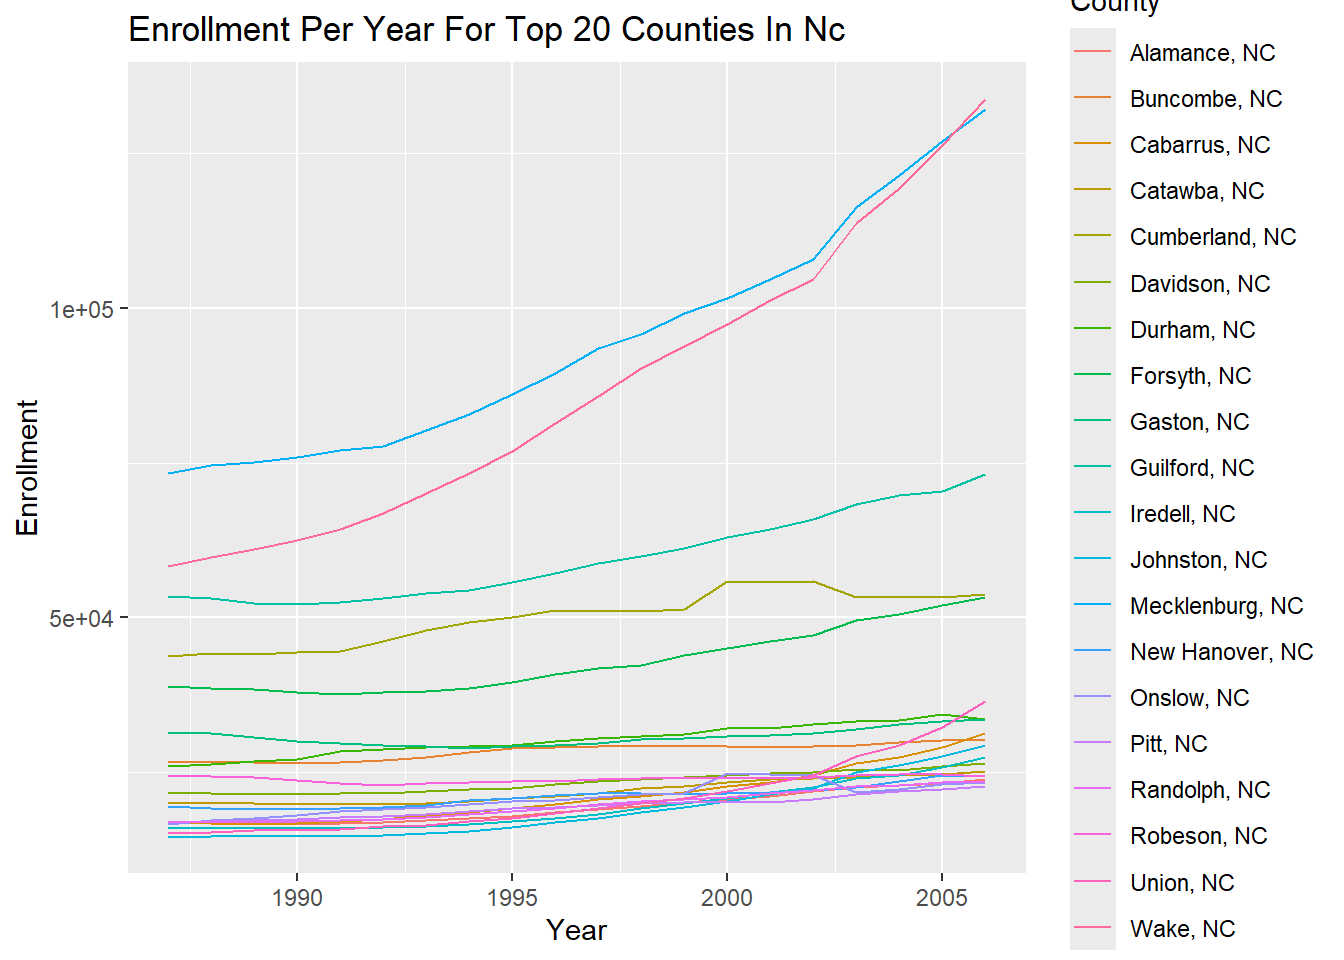
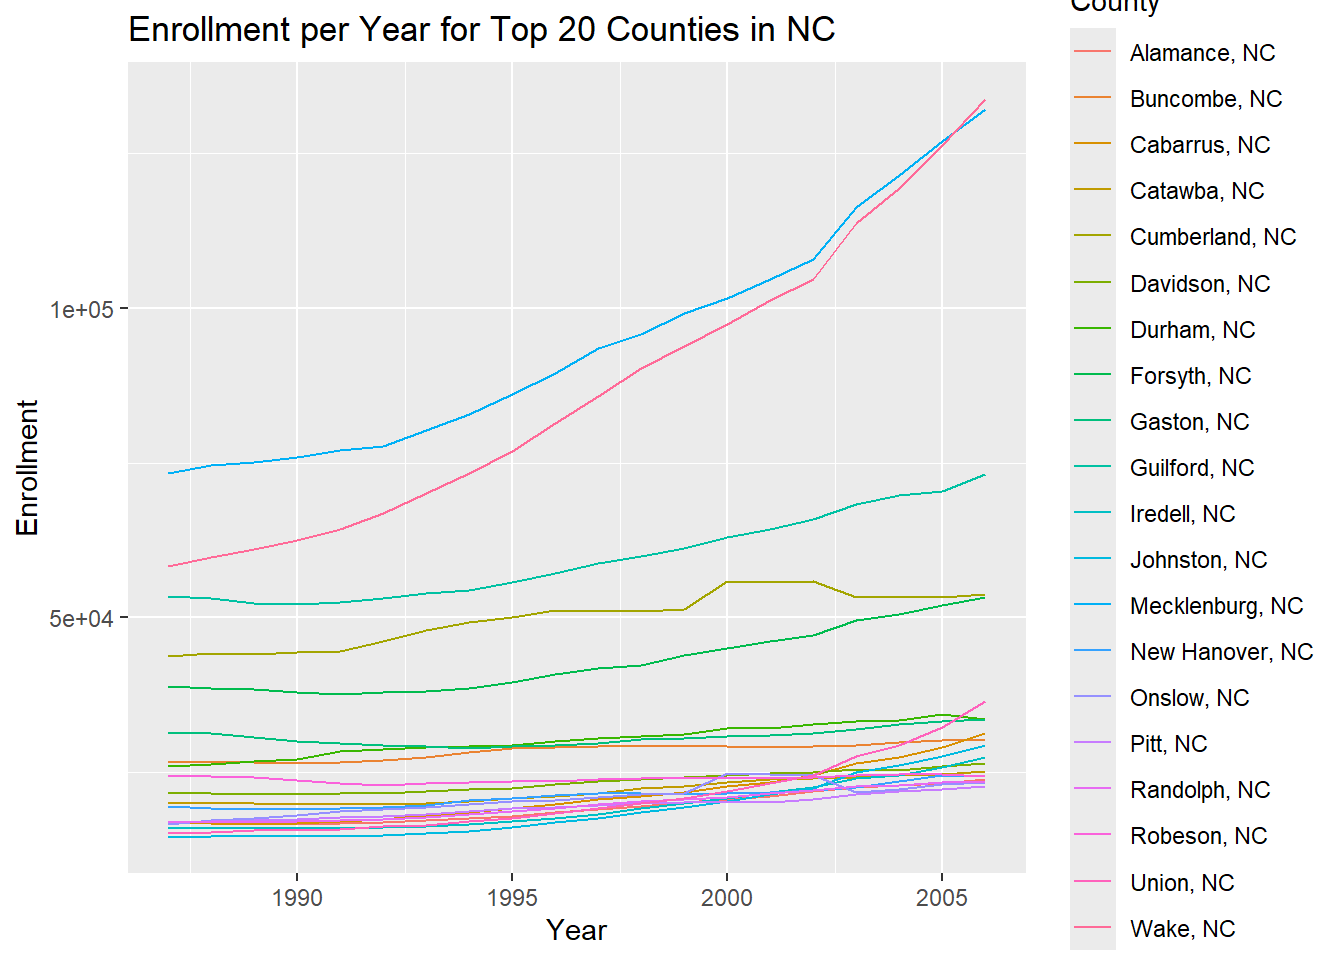
changed title function in plots so abbreviations are capitalized and prepositions lowercase

Changed region(s): [[0.2188, 0.0, 0.625, 0.0625]]

diff --git a/docs/ST558Proj1.html b/docs/ST558Proj1.html
@@ -534,21 +534,22 @@ dbl (20): EDU010197F, EDU010197D, EDU010198F, EDU010198D, EDU010199F, EDU010...
 <section id="state-plotting-function" class="level2">
 <h2 class="anchored" data-anchor-id="state-plotting-function">State Plotting Function</h2>
 <p>For the state plotting function, we want to create a function that will take in our combined census data sets and our default variable as arguments and returns a plot of year versus the mean of the default variable for each division. To accomplish this, we first need to do some manipulation with our tibble. First, we isolate the proper tibble from the list using $noncounty_data. Since the United States is not a division and has “ERROR” in the division column, we need to filter to remove those rows. Finally we can group by year and division to so that the appropriate means are calculated. To calculate a mean for each year and division combination, we use summarize and reference our default variable name for the mean function.</p>
-<p>After putting our data in the proper form and obtaining means, we can create our line plot. We use ggplot to create a plot instance. The plot instance needs two arguments, one specifying our data and the ohter an aesthetic (aes) mapping argument. The aes mapping defines the x and y axis variables, as well as mapping for division so the plot assigns a different color and line to each division. Next we add layers. Since we want a line connecting years for each division, we use geom_line. We chose to leave the defaults in place so no arguments are specified. A labs layer was then added to modify some labels. The axes and legend labels are capitalized and the title and y-axis label specified in a way that will allow the names to change dynamically according to the default variable name used when calling the function.</p>
+<p>After putting our data in the proper form and obtaining means, we can create our line plot. We use ggplot to create a plot instance. The plot instance needs two arguments, one specifying our data and the other an aesthetic (aes) mapping argument. The aes mapping defines the x and y axis variables, as well as mapping for division so the plot assigns a different color and line to each division. Next we add layers. Since we want a line connecting years for each division, we use geom_line. We chose to leave the defaults in place so no arguments are specified. A labs layer was then added to modify some labels. The axes and legend labels are capitalized and the title and y-axis label specified in a way that will allow the names to change dynamically according to the default variable name used when calling the function.</p>
 <div class="cell">
-<div class="sourceCode cell-code" id="cb32"><pre class="sourceCode r code-with-copy"><code class="sourceCode r"><span id="cb32-1"><a href="#cb32-1" aria-hidden="true" tabindex="-1"></a>state.plot <span class="ot">&lt;-</span> <span class="cf">function</span>(df, <span class="at">var_name =</span> <span class="st">"enrollment"</span>) {</span>
-<span id="cb32-2"><a href="#cb32-2" aria-hidden="true" tabindex="-1"></a>  result <span class="ot">&lt;-</span> df<span class="sc">$</span>noncounty_data <span class="sc">|&gt;</span></span>
-<span id="cb32-3"><a href="#cb32-3" aria-hidden="true" tabindex="-1"></a>    <span class="fu">filter</span>(area_name <span class="sc">!=</span> <span class="st">"UNITED STATES"</span>) <span class="sc">|&gt;</span> </span>
-<span id="cb32-4"><a href="#cb32-4" aria-hidden="true" tabindex="-1"></a>    <span class="fu">group_by</span>(division, year) <span class="sc">|&gt;</span> </span>
-<span id="cb32-5"><a href="#cb32-5" aria-hidden="true" tabindex="-1"></a>    <span class="fu">summarize</span>(<span class="at">mean_values =</span> <span class="fu">mean</span>(<span class="fu">get</span>(var_name)), <span class="at">.groups =</span> <span class="st">"drop"</span>)</span>
-<span id="cb32-6"><a href="#cb32-6" aria-hidden="true" tabindex="-1"></a>  g <span class="ot">&lt;-</span> <span class="fu">ggplot</span>(result, <span class="fu">aes</span>(<span class="at">x =</span> year, <span class="at">y =</span> mean_values, <span class="at">color =</span> division)) <span class="sc">+</span></span>
-<span id="cb32-7"><a href="#cb32-7" aria-hidden="true" tabindex="-1"></a>    <span class="fu">geom_line</span>() <span class="sc">+</span></span>
-<span id="cb32-8"><a href="#cb32-8" aria-hidden="true" tabindex="-1"></a>    <span class="fu">labs</span> (<span class="at">x =</span> <span class="st">"Year"</span>, <span class="at">y =</span> <span class="fu">str_to_title</span>(<span class="fu">paste</span>(<span class="st">"mean"</span>, var_name)), <span class="at">color =</span> <span class="st">"Division"</span>, </span>
-<span id="cb32-9"><a href="#cb32-9" aria-hidden="true" tabindex="-1"></a>          <span class="at">title =</span> <span class="fu">str_to_title</span>(<span class="fu">paste</span>(<span class="st">"mean"</span>, var_name, <span class="st">"per year by division"</span>)))</span>
-<span id="cb32-10"><a href="#cb32-10" aria-hidden="true" tabindex="-1"></a>  <span class="fu">return</span>(g)</span>
-<span id="cb32-11"><a href="#cb32-11" aria-hidden="true" tabindex="-1"></a>}</span>
-<span id="cb32-12"><a href="#cb32-12" aria-hidden="true" tabindex="-1"></a></span>
-<span id="cb32-13"><a href="#cb32-13" aria-hidden="true" tabindex="-1"></a><span class="co">#state.plot(combined_census_lists_EDU)</span></span></code><button title="Copy to Clipboard" class="code-copy-button"><i class="bi"></i></button></pre></div>
+<div class="sourceCode cell-code" id="cb32"><pre class="sourceCode r code-with-copy"><code class="sourceCode r"><span id="cb32-1"><a href="#cb32-1" aria-hidden="true" tabindex="-1"></a><span class="fu">library</span>(tools)</span>
+<span id="cb32-2"><a href="#cb32-2" aria-hidden="true" tabindex="-1"></a>state.plot <span class="ot">&lt;-</span> <span class="cf">function</span>(df, <span class="at">var_name =</span> <span class="st">"enrollment"</span>) {</span>
+<span id="cb32-3"><a href="#cb32-3" aria-hidden="true" tabindex="-1"></a>  result <span class="ot">&lt;-</span> df<span class="sc">$</span>noncounty_data <span class="sc">|&gt;</span></span>
+<span id="cb32-4"><a href="#cb32-4" aria-hidden="true" tabindex="-1"></a>    <span class="fu">filter</span>(area_name <span class="sc">!=</span> <span class="st">"UNITED STATES"</span>) <span class="sc">|&gt;</span> </span>
+<span id="cb32-5"><a href="#cb32-5" aria-hidden="true" tabindex="-1"></a>    <span class="fu">group_by</span>(division, year) <span class="sc">|&gt;</span> </span>
+<span id="cb32-6"><a href="#cb32-6" aria-hidden="true" tabindex="-1"></a>    <span class="fu">summarize</span>(<span class="at">mean_values =</span> <span class="fu">mean</span>(<span class="fu">get</span>(var_name)), <span class="at">.groups =</span> <span class="st">"drop"</span>)</span>
+<span id="cb32-7"><a href="#cb32-7" aria-hidden="true" tabindex="-1"></a>  g <span class="ot">&lt;-</span> <span class="fu">ggplot</span>(result, <span class="fu">aes</span>(<span class="at">x =</span> year, <span class="at">y =</span> mean_values, <span class="at">color =</span> division)) <span class="sc">+</span></span>
+<span id="cb32-8"><a href="#cb32-8" aria-hidden="true" tabindex="-1"></a>    <span class="fu">geom_line</span>() <span class="sc">+</span></span>
+<span id="cb32-9"><a href="#cb32-9" aria-hidden="true" tabindex="-1"></a>    <span class="fu">labs</span> (<span class="at">x =</span> <span class="st">"Year"</span>, <span class="at">y =</span> <span class="fu">str_to_title</span>(<span class="fu">paste</span>(<span class="st">"mean"</span>, var_name)), <span class="at">color =</span> <span class="st">"Division"</span>, </span>
+<span id="cb32-10"><a href="#cb32-10" aria-hidden="true" tabindex="-1"></a>          <span class="at">title =</span> <span class="fu">toTitleCase</span>(<span class="fu">paste</span>(<span class="st">"mean"</span>, var_name, <span class="st">"per year by division"</span>)))</span>
+<span id="cb32-11"><a href="#cb32-11" aria-hidden="true" tabindex="-1"></a>  <span class="fu">return</span>(g)</span>
+<span id="cb32-12"><a href="#cb32-12" aria-hidden="true" tabindex="-1"></a>}</span>
+<span id="cb32-13"><a href="#cb32-13" aria-hidden="true" tabindex="-1"></a></span>
+<span id="cb32-14"><a href="#cb32-14" aria-hidden="true" tabindex="-1"></a><span class="co">#state.plot(combined_census_lists_EDU)</span></span></code><button title="Copy to Clipboard" class="code-copy-button"><i class="bi"></i></button></pre></div>
 </div>
 </section>
 <section id="county-plotting-function" class="level2">
@@ -585,8 +586,8 @@ dbl (20): EDU010197F, EDU010197D, EDU010198F, EDU010198D, EDU010199F, EDU010...
 <span id="cb33-24"><a href="#cb33-24" aria-hidden="true" tabindex="-1"></a>    <span class="fu">geom_line</span>() <span class="sc">+</span></span>
 <span id="cb33-25"><a href="#cb33-25" aria-hidden="true" tabindex="-1"></a>    <span class="fu">labs</span> (<span class="at">x =</span> <span class="st">"Year"</span>, <span class="at">y =</span> <span class="fu">str_to_title</span>(var_name), </span>
 <span id="cb33-26"><a href="#cb33-26" aria-hidden="true" tabindex="-1"></a>          <span class="at">color =</span> <span class="st">"County"</span>, </span>
-<span id="cb33-27"><a href="#cb33-27" aria-hidden="true" tabindex="-1"></a>          <span class="at">title =</span> <span class="fu">str_to_title</span>(<span class="fu">paste</span>(var_name, <span class="st">"per year for"</span>, sort, x, <span class="st">"counties in"</span>,</span>
-<span id="cb33-28"><a href="#cb33-28" aria-hidden="true" tabindex="-1"></a>                                     select_state)))</span>
+<span id="cb33-27"><a href="#cb33-27" aria-hidden="true" tabindex="-1"></a>          <span class="at">title =</span> <span class="fu">toTitleCase</span>(<span class="fu">paste</span>(var_name, <span class="st">"per year for"</span>, sort, x, </span>
+<span id="cb33-28"><a href="#cb33-28" aria-hidden="true" tabindex="-1"></a>                                    <span class="st">"counties in"</span>, select_state)))</span>
 <span id="cb33-29"><a href="#cb33-29" aria-hidden="true" tabindex="-1"></a>}</span>
 <span id="cb33-30"><a href="#cb33-30" aria-hidden="true" tabindex="-1"></a></span>
 <span id="cb33-31"><a href="#cb33-31" aria-hidden="true" tabindex="-1"></a><span class="co">#plot.county(combined_census_lists_EDU, sort = "bottom", x=5)</span></span></code><button title="Copy to Clipboard" class="code-copy-button"><i class="bi"></i></button></pre></div>
